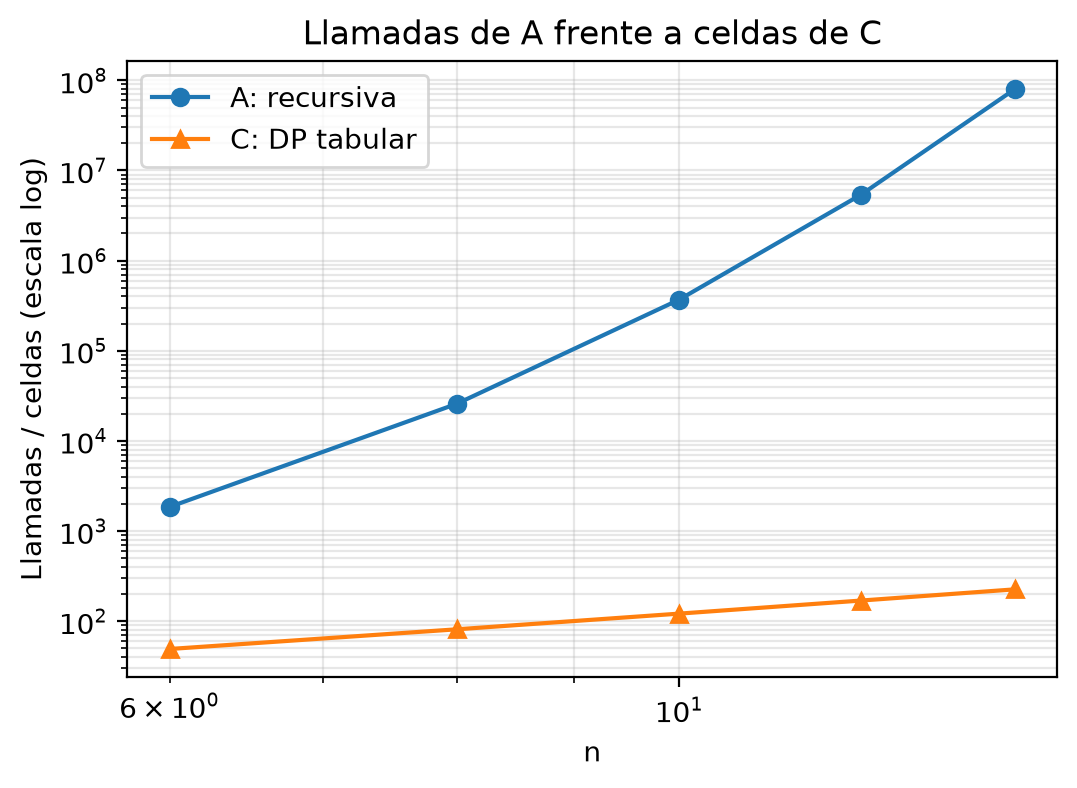
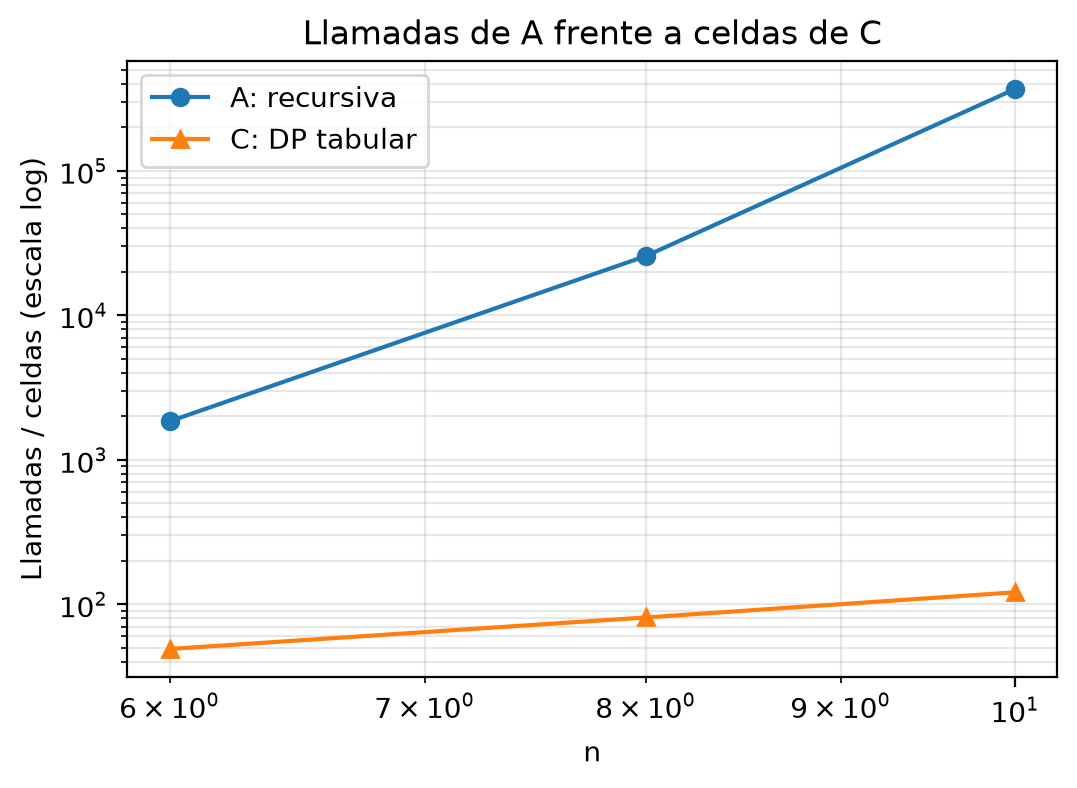
Instrucciones multiplataforma, run_all.py y requisitos flexibles

diff --git a/run_all.py b/run_all.py
@@ -1,0 +1,28 @@
+"""Ejecuta todo el proyecto con un único comando, en cualquier sistema operativo.
+
+    python run_all.py            # tests + experimentos completos + gráficas
+    python run_all.py --rapido   # versión reducida, para comprobar que todo funciona
+
+Equivale a `make`, pero no necesita make (útil en Windows).
+"""
+import subprocess
+import sys
+from pathlib import Path
+
+RAIZ = Path(__file__).resolve().parent
+
+
+def paso(titulo, argumentos):
+    print(f"\n=== {titulo} ===", flush=True)
+    resultado = subprocess.run([sys.executable, *argumentos], cwd=RAIZ)
+    if resultado.returncode != 0:
+        print(f"\nERROR en el paso: {titulo}", file=sys.stderr)
+        sys.exit(resultado.returncode)
+
+
+if __name__ == "__main__":
+    rapido = ["--rapido"] if "--rapido" in sys.argv else []
+    paso("1/3 Tests de correccion", ["-m", "pytest", "tests", "-q"])
+    paso("2/3 Experimentos (tiempo y memoria)", ["src/benchmark.py", *rapido])
+    paso("3/3 Graficas y tabla de resultados", ["src/graficas.py"])
+    print("\nListo. Resultados en la carpeta data/ (resultados.csv y grafica_*.png).")

diff --git a/README.md b/README.md
@@ -10,42 +10,125 @@ Tres implementaciones de la **subsecuencia común más larga** (*Longest Common 
 
 > Asignatura: Diseño avanzado de algoritmos · Autor: **César Otero Fernández**
 
+---
+
+## Guía rápida
+
+Con Python 3.9 o superior instalado, desde la carpeta del proyecto:
+
+```bash
+python -m pip install -r requirements.txt
+python run_all.py
+```
+
+Funciona igual en Linux, macOS y Windows, y no necesita `make`. En unos minutos ejecuta los tests, los experimentos y genera las gráficas en `data/`. Para una comprobación rápida (unos segundos): `python run_all.py --rapido`.
+
+Si `python` no se reconoce, prueba `python3` (Linux/macOS) o `py` (Windows). Las instrucciones detalladas por sistema están más abajo.
+
+---
+
 ## Requisitos
 
-- Python 3.10 o superior (probado con 3.14)
-- `make` (Linux/macOS; en Windows, usar Git Bash/WSL o ejecutar los tres comandos de la sección *Sin make*)
-- Dependencias de Python: `matplotlib` y `pytest` (ver `requirements.txt`). No se usa ninguna librería específica de LCS.
+- **Python 3.9 o superior** (desarrollado y probado con 3.14).
+- **Dependencias:** `matplotlib` (gráficas) y `pytest` (tests), indicadas en `requirements.txt`. Los algoritmos y el benchmark solo usan la librería estándar, y no se utiliza ninguna librería específica de LCS.
+- `make` es **opcional**.
 
-## Ejecución con un único comando
+## Instalación y ejecución paso a paso
+
+Primero, descargar el proyecto (cualquiera de las dos formas):
 
 ```bash
-git clone https://github.com/Coterof/lcs-actividad1
+git clone https://github.com/Coterof/lcs-actividad1.git
 cd lcs-actividad1
-python -m venv .venv
-source .venv/bin/activate        # Windows: .venv\Scripts\activate
+```
+o bien descargar el ZIP desde GitHub (*Code → Download ZIP*), descomprimirlo y abrir una terminal en esa carpeta.
+
+### Linux
+
+```bash
+python3 -m venv .venv
+source .venv/bin/activate
 pip install -r requirements.txt
-make
+python run_all.py          # o simplemente: make
 ```
+En Debian/Ubuntu, si falla la creación del entorno: `sudo apt install python3-venv`.
 
-`make` ejecuta en orden:
-
-1. **`make test`** – pruebas de corrección (`pytest`).
-2. **`make bench`** – experimentos; genera `data/resultados.csv`.
-3. **`make plots`** – genera las gráficas `data/grafica_*.png` e imprime la tabla de resultados en Markdown.
-
-El benchmark completo tarda unos minutos, porque la versión A en el peor caso con n = 14 necesita unos 7 s por medición y se repite varias veces. Para una prueba rápida:
+### macOS
 
 ```bash
-python src/benchmark.py --rapido
+python3 -m venv .venv
+source .venv/bin/activate
+pip install -r requirements.txt
+python run_all.py          # o simplemente: make
 ```
 
-### Sin `make`
+### Windows (PowerShell o CMD)
 
+```powershell
+py -m venv .venv
+.venv\Scripts\Activate.ps1      # en CMD: .venv\Scripts\activate.bat
+pip install -r requirements.txt
+python run_all.py
+```
+Si PowerShell bloquea la activación del entorno, ejecutar antes `Set-ExecutionPolicy -Scope Process Bypass`, o usar CMD. En Windows no hace falta `make`: `run_all.py` hace lo mismo.
+
+### Sin entorno virtual (opción más corta)
+
+Si no se quiere crear un entorno virtual:
 ```bash
-python -m pytest tests -q
-python src/benchmark.py
-python src/graficas.py
+python -m pip install --user -r requirements.txt
+python run_all.py
 ```
+
+### Google Colab (sin instalar nada)
+
+En un cuaderno nuevo de https://colab.research.google.com, ejecutar en una celda:
+```python
+!git clone https://github.com/Coterof/lcs-actividad1.git
+%cd lcs-actividad1
+!pip install -r requirements.txt
+!python run_all.py --rapido
+```
+Quitar `--rapido` para el experimento completo. Las gráficas quedan en la carpeta `data/` del entorno de Colab.
+
+## Formas de ejecutar el proyecto
+
+Las tres hacen exactamente lo mismo (tests → experimentos → gráficas):
+
+| Forma | Comando | Cuándo usarla |
+|---|---|---|
+| Script de Python | `python run_all.py` | En cualquier sistema (recomendada) |
+| Make | `make` (con otro intérprete: `make PYTHON=python3`) | Linux/macOS |
+| Manual | `python -m pytest tests -q` · `python src/benchmark.py` · `python src/graficas.py` | Para ejecutar solo una parte |
+
+Opciones útiles:
+- **Solo tests:** `python -m pytest tests -q` (o `make test`). Deben pasar 23 pruebas.
+- **Solo una comprobación rápida de los experimentos:** `python src/benchmark.py --rapido`.
+- **Probar una versión suelta**, por ejemplo Hirschberg:
+  ```bash
+  python -c "import sys; sys.path.insert(0, 'src'); from lcs_hirschberg import hirschberg; print(hirschberg('ABCBDAB', 'BDCABA'))"
+  ```
+
+### Qué genera la ejecución
+
+- `data/resultados.csv`: tiempo de CPU, memoria máxima y número de llamadas de cada versión y tamaño.
+- `data/grafica_tiempo.png`, `data/grafica_memoria.png` y `data/grafica_llamadas.png`.
+- Por pantalla, la tabla de resultados en formato Markdown.
+
+El experimento completo tarda unos minutos, porque la versión A en el peor caso con n = 14 necesita unos 7 s por medición y se repite varias veces, y con n = 16 se espera hasta el límite de 60 s antes de marcarla como `timeout`. Los tiempos absolutos dependen del equipo, y los órdenes de crecimiento deben ser los mismos.
+
+## Problemas frecuentes
+
+| Problema | Solución |
+|---|---|
+| `python: command not found` / `'python' no se reconoce` | Usar `python3` (Linux/macOS) o `py` (Windows) en lugar de `python`. |
+| `make: command not found` / `make` no existe en Windows | Usar `python run_all.py`, que no necesita make. |
+| `make` usa un Python distinto al deseado | `make PYTHON=python3` |
+| `externally-managed-environment` al hacer `pip install` | Crear un entorno virtual (`python3 -m venv .venv` y activarlo), o usar `pip install --user --break-system-packages -r requirements.txt` como último recurso. |
+| `No module named matplotlib` / `pytest` | Activar el entorno virtual y repetir `pip install -r requirements.txt`. |
+| `ModuleNotFoundError: lcs_dp` al lanzar un script a mano | Ejecutar desde la raíz del proyecto, como en los ejemplos (`python src/benchmark.py`). |
+| PowerShell no deja activar el entorno | `Set-ExecutionPolicy -Scope Process Bypass`, o usar CMD. |
+| El experimento tarda demasiado | `python run_all.py --rapido`. |
 
 ## Estructura del proyecto
 
@@ -60,7 +143,9 @@ lcs-actividad1/
 │   └── graficas.py         # Gráficas y tabla de resultados
 ├── tests/test_lcs.py       # Pruebas: casos límite, ejemplo del Tema 3 y 200 parejas aleatorias
 ├── data/                   # resultados.csv y gráficas generadas
-├── Makefile
+├── run_all.py              # Ejecuta todo con un único comando (multiplataforma)
+├── Makefile                # Equivalente a run_all.py para Linux/macOS
+├── pytest.ini
 ├── requirements.txt
 └── README.md
 ```
@@ -75,11 +160,11 @@ lcs-actividad1/
 ### Limitaciones
 
 - `tracemalloc` no cuenta la pila de llamadas, por lo que la memoria de la versión A queda infravalorada (teóricamente O(m+n) marcos de pila).
-- Se mide una sola pareja por tamaño y los tiempos varían algo entre ejecuciones según la carga de la máquina.
+- Se mide una sola pareja por tamaño y los tiempos varían algo entre ejecuciones según la carga de la máquina; con tamaños pequeños, la diferencia entre B y C puede incluso invertirse por el ruido de medición.
 
 ## Resultados principales
 
-Medidos en el equipo del autor (Python 3.14). Los valores exactos están en `data/resultados.csv`.
+Medidos en un equipo con Intel Core i5-1135G7, 16 GB de RAM, Omarchy Linux y Python 3.14.10. Los valores exactos están en `data/resultados.csv`.
 
 | n | A: tiempo (ms) | A: llamadas | B: tiempo (ms) | B: MB | C: tiempo (ms) | C: MB |
 |---|---|---|---|---|---|---|
@@ -99,7 +184,7 @@ Conclusiones breves:
 
 - **A** es exponencial: el número de llamadas coincide exactamente con 2·C(2n, n) − 1, y con n = 16 ya tarda más de dos minutos.
 - **C** es la más simple y rápida, pero su memoria crece como n² (56 MB con n = 2000).
-- **B** mantiene el tiempo O(m·n), con una constante algo mayor (entre 1,1 y 1,7 veces más lento que C), y reduce la memoria a O(n) (unas 290 veces menos con n = 2000).
+- **B** mantiene el tiempo O(m·n), con una constante algo mayor, y reduce la memoria a O(n) (unas 290 veces menos con n = 2000).
 
 La memoria completa, con el análisis detallado y las gráficas, está en el PDF de la entrega.
 
